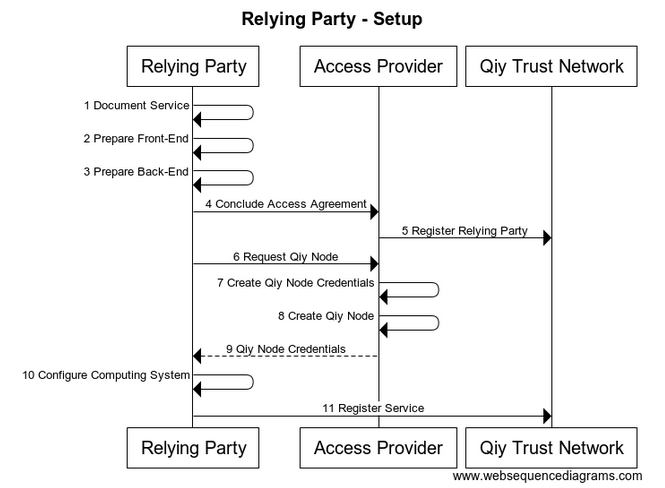
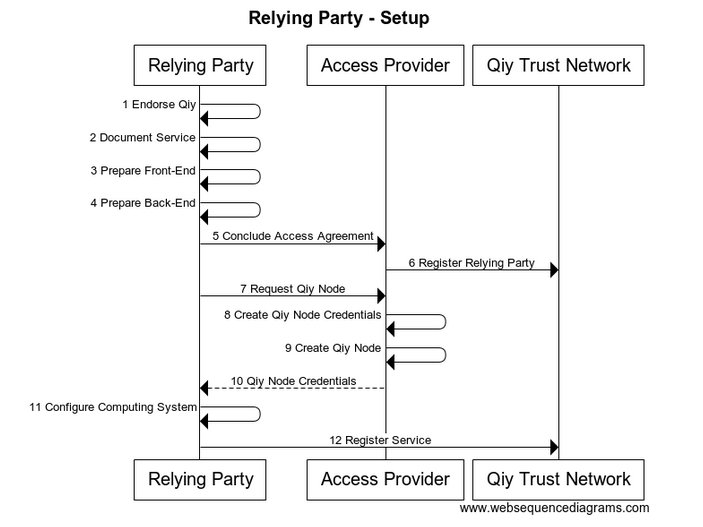
Included Add 'Endorse Qiy' to 5.1 Setup (for Relying Party) in Functional Specification.
As part of #2.

Changed region(s): [[0.0301, 0.0, 0.9624, 1.0]]

diff --git a/Functional Specification.md b/Functional Specification.md
@@ -140,6 +140,7 @@ This section describes a scenario of a [Relying Party](Definitions.md#relying-pa
 ![Relying Party - Setup](./images/Relying_Party-_Setup_-_Functional_Specification.png)
 
 The flow is as follows:
+1. The [Relying Party](Definitions.md#relying-party) endorses [Qiy](Definitions.md#qiy) by implementing the [Binding Principles for Relying Parties and Data Providers](Definitions.md#binding-principles-for-relying-parties-and-data-providers).
 1. The [Relying Party](Definitions.md#relying-party) documents its [Service](Definitions.md#service) in a [Service Description](Definitions.md#service-description).
 1. The [Relying Party](Definitions.md#relying-party) prepares the front-end of its computing system to be able to establish (initially anonymous) connections with [Individuals](Definitions.md#individual) via Qiy.
 1. The [Relying Party](Definitions.md#relying-party) prepares the back-end of its computing system to be able to receive [Personal Data](Definitions.md#personal-data) via Qiy.
@@ -377,17 +378,18 @@ participant "Relying Party" as RP
 participant "Access Provider" as AP
 participant "Qiy Trust Network" as QTN
 
-RP->RP: 1 Document Service
-RP->RP: 2 Prepare Front-End
-RP->RP: 3 Prepare Back-End
-RP->AP  : 4 Conclude Access Agreement
-AP-> QTN  : 5 Register Relying Party
-RP->AP  : 6 Request Qiy Node
-AP->AP : 7 Create Qiy Node Credentials
-AP->AP : 8 Create Qiy Node
-AP-->RP: 9 Qiy Node Credentials
-RP->RP: 10 Configure Computing System
-RP-> QTN  : 11 Register Service
+RP->RP: 1 Endorse Qiy
+RP->RP: 2 Document Service
+RP->RP: 3 Prepare Front-End
+RP->RP: 4 Prepare Back-End
+RP->AP  : 5 Conclude Access Agreement
+AP-> QTN  : 6 Register Relying Party
+RP->AP  : 7 Request Qiy Node
+AP->AP : 8 Create Qiy Node Credentials
+AP->AP : 9 Create Qiy Node
+AP-->RP: 10 Qiy Node Credentials
+RP->RP: 11 Configure Computing System
+RP-> QTN  : 12 Register Service
 ```
 
 
